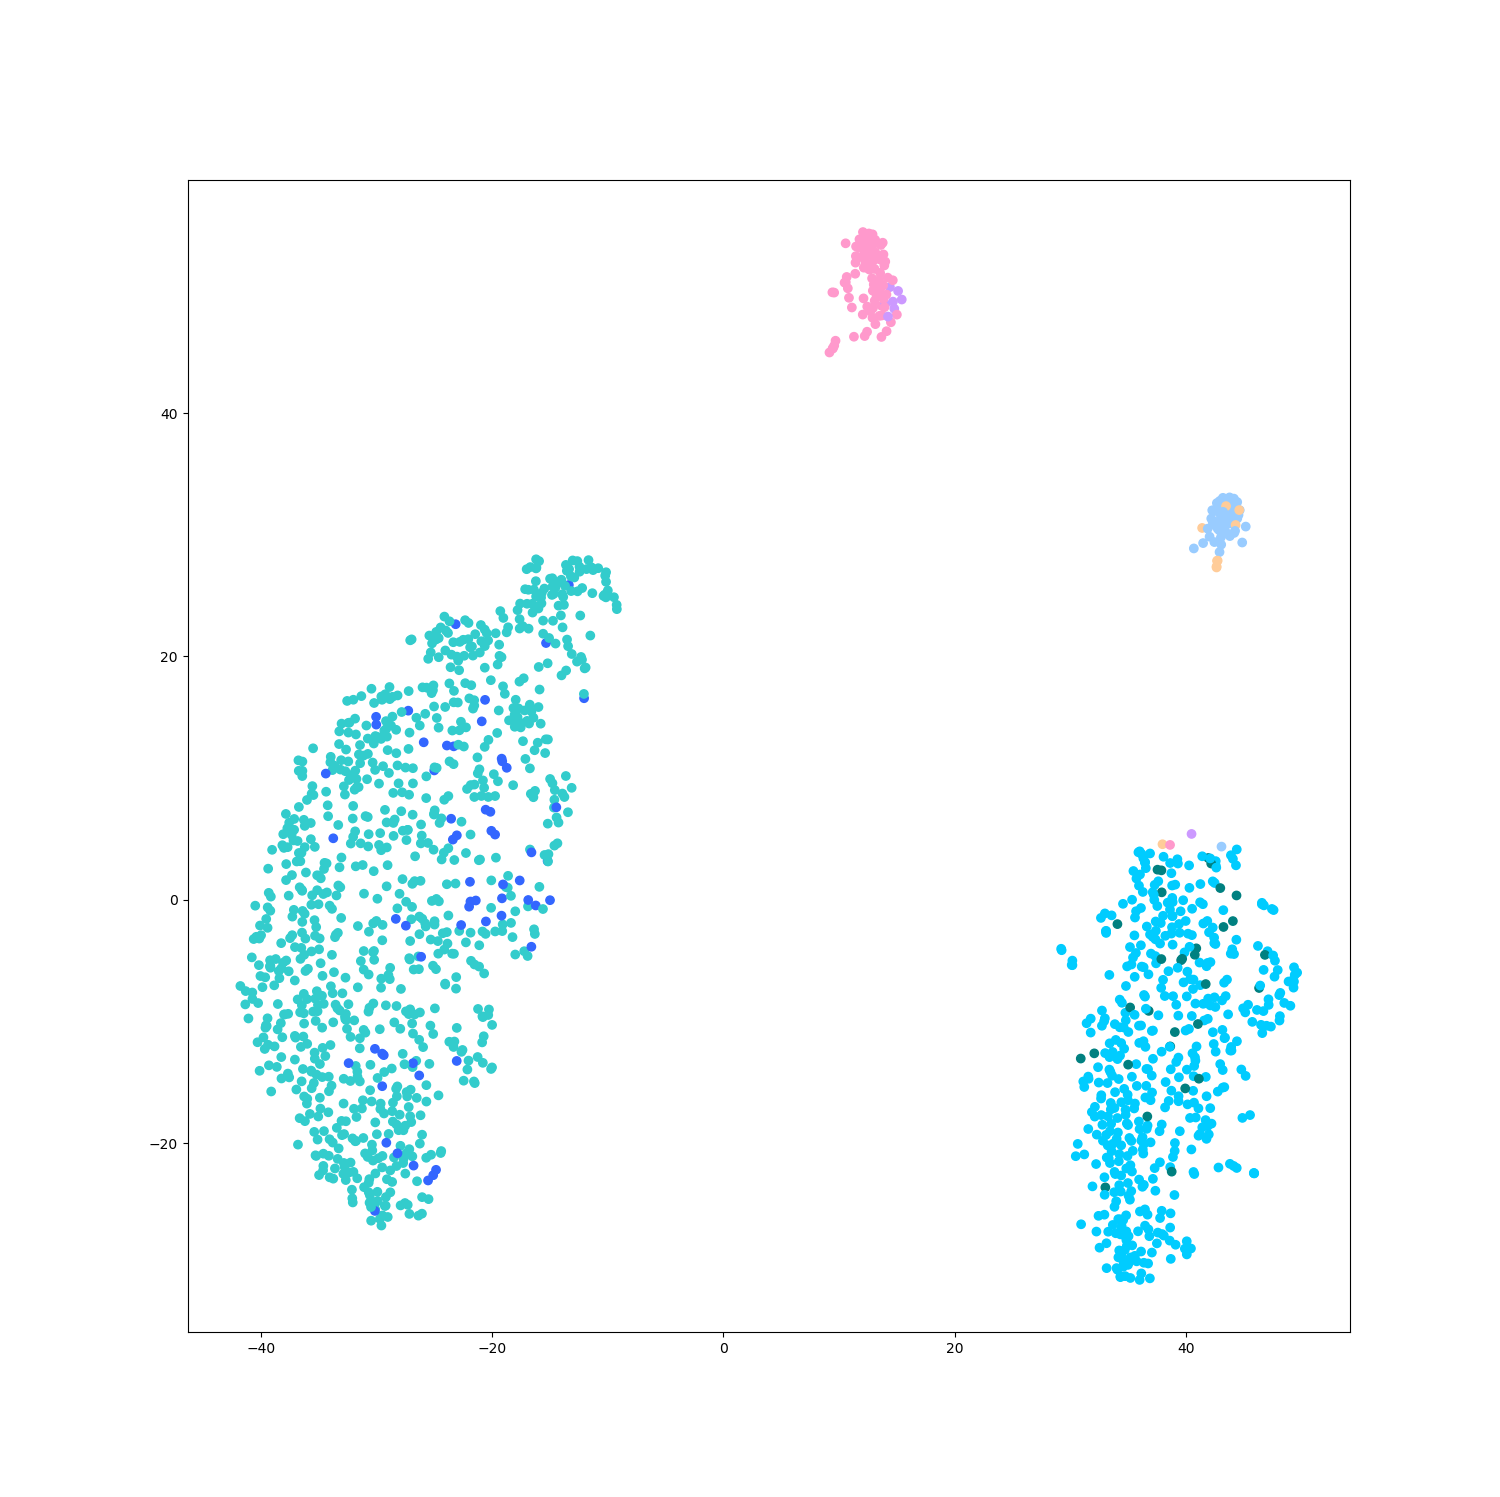
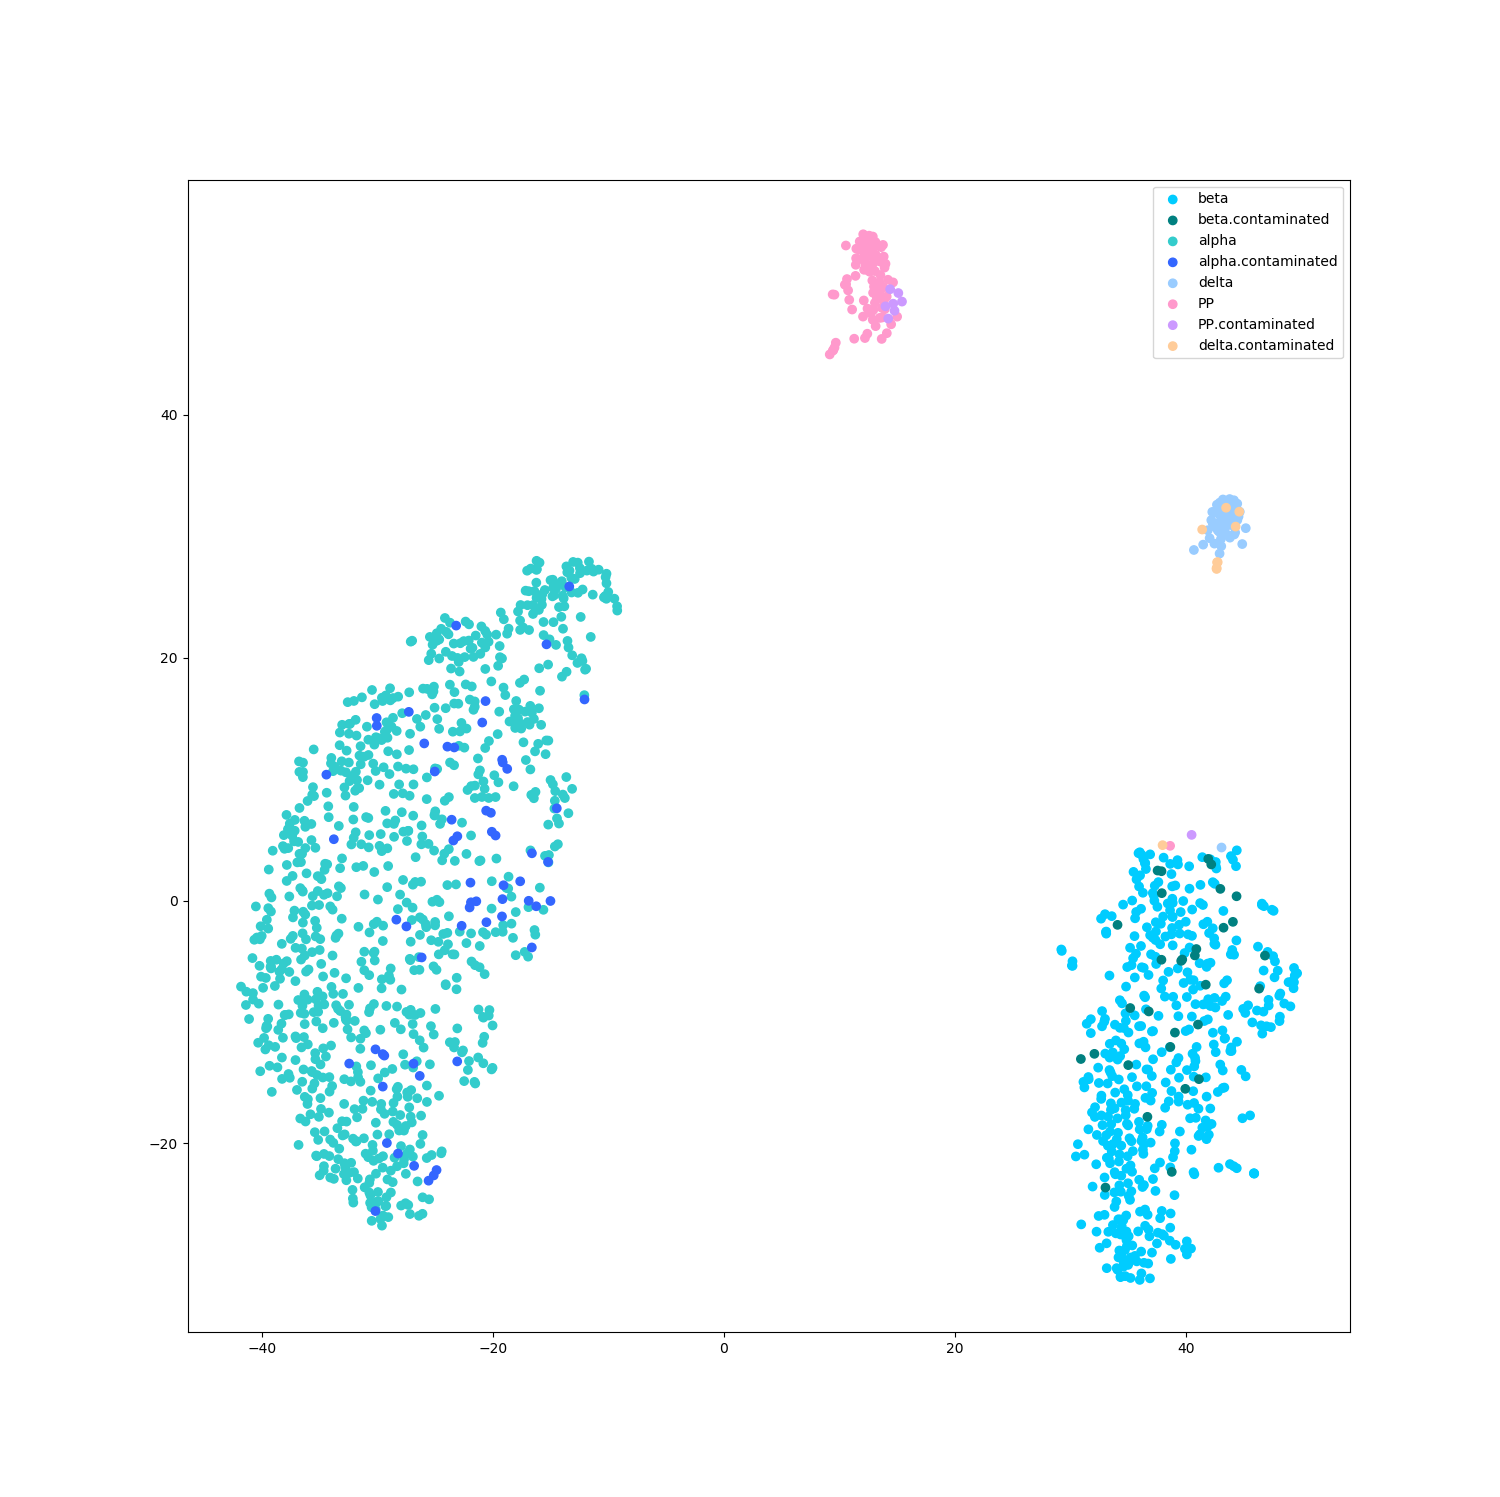
add plot with labels

diff --git a/src/Utils.py b/src/Utils.py
@@ -2,11 +2,12 @@
 Description: 
 Author: CheeReus_11
 Date: 2020-08-08 17:42:59
-LastEditTime: 2020-08-09 14:45:29
+LastEditTime: 2020-08-09 16:58:21
 LastEditors: CheeReus_11
 '''
 
 from collections import Counter
+import matplotlib.pyplot as plt
 
 # default_colors = ['c', 'b', 'g', 'r', 'm', 'y', 'k']
 # default_colors = [[1, 0, 0],[0, 1, 0], [0, 0, 1], [1, 1, 0], [1, 0, 1], [0, 1, 1], [1, 1, 1], [0.5, 0.5, 0.5]]
@@ -14,6 +15,7 @@ default_colors = [[0, 0.8, 1],[0, 0.5, 0.5], [0.2, 0.8, 0.8], [0.2, 0.4, 1], [0.
 
 # Get color list for drawing based on labels, more color values can also be customized
 def get_color(labels, colors=None):
+    
     len_labels = len(labels)
     t = 0
     c = [None] * len_labels
@@ -22,10 +24,32 @@ def get_color(labels, colors=None):
     # colors = colors or range(1, len(count_result.keys()) + 1)
     
     for i in count_result.keys():
-        print(i,colors[t])
         for j in range(len_labels):
             if i == labels[j]:
                 c[j] = colors[t]
         t += 1
     
     return c
+
+# draw with label TODO include the get_color function to simplify
+def draw_scatter(x, y, labels, colors):
+    
+    len_labels = len(labels)
+    t = 0
+    count_result = Counter(labels)
+    plt.figure(figsize=(15,15))
+
+    for i in count_result.keys():
+        xi = []
+        yi = []
+        ci = []
+        for j in range(len_labels):
+            if i == labels[j]:
+                xi.append(x[j])
+                yi.append(y[j])
+                ci.append(colors[j])
+        plt.scatter(xi, yi, c=ci, label=i)
+        t += 1
+
+    plt.legend(loc='best')
+    plt.show()

diff --git a/src/examples_mat.py b/src/examples_mat.py
@@ -2,16 +2,16 @@
 Description: 
 Author: CheeReus_11
 Date: 2020-08-08 17:17:57
-LastEditTime: 2020-08-09 16:16:50
+LastEditTime: 2020-08-09 16:55:12
 LastEditors: CheeReus_11
 '''
 import matplotlib.pyplot as plt
 from ReadData import read_from_mat
 from DimensionReduction import t_SNE, get_pca
-from Utils import get_color
+from Utils import get_color, draw_scatter
 
 # read data
-X = read_from_mat('data/corr/A_hcancer.mat')['A']
+X = read_from_mat('data/corr/A_islet.mat')['A']
 
 # dimenison reduction 
 # t-SNE
@@ -25,7 +25,7 @@ x = [i[0] for i in dim_data]
 y = [i[1] for i in dim_data]
 
 # read labels
-labels = read_from_mat('data/corr/Labels_hcancer.mat')['Labels']
+labels = read_from_mat('data/corr/Labels_islet.mat')['Labels']
 labels = [i[0][0] for i in labels]
 print(len(labels))
 
@@ -34,7 +34,5 @@ default_colors = ['c', 'b', 'g', 'r', 'm', 'y', 'k']
 colors = get_color(labels, default_colors)
 print(colors)
 
-# plot
-plt.figure(figsize=(15,15))
-plt.scatter(x, y, c=colors)
-plt.show()
+# draw
+draw_scatter(x, y, labels, colors)

diff --git a/src/examples_csv.py b/src/examples_csv.py
@@ -2,13 +2,13 @@
 Description: 
 Author: CheeReus_11
 Date: 2020-08-08 17:17:57
-LastEditTime: 2020-08-09 16:05:19
+LastEditTime: 2020-08-09 16:57:17
 LastEditors: CheeReus_11
 '''
 import matplotlib.pyplot as plt
 from ReadData import read_from_csv
 from DimensionReduction import t_SNE, get_pca
-from Utils import get_color
+from Utils import get_color, draw_scatter
 import numpy as np
 
 # read data
@@ -22,7 +22,7 @@ labels = [i.partition('#')[0] for i in labels]
 
 # dimenison reduction 
 # t-SNE
-dim_data = t_SNE(X, perp=5, with_normalize=True)
+dim_data = t_SNE(X, perp=40, with_normalize=True)
 
 # PCA
 # dim_data, ratio, result = get_pca(X, c=2, with_normalize=True)
@@ -37,6 +37,4 @@ default_colors = ['c', 'b', 'g', 'r', 'm', 'y', 'k']
 colors = get_color(labels)
 
 # plot
-plt.figure(figsize=(15,15))
-plt.scatter(x, y, c=colors)
-plt.show()
+draw_scatter(x, y, labels, colors)

diff --git a/src/examples_txt.py b/src/examples_txt.py
@@ -2,13 +2,13 @@
 Description: 
 Author: CheeReus_11
 Date: 2020-08-08 17:17:57
-LastEditTime: 2020-08-09 14:58:49
+LastEditTime: 2020-08-09 17:03:58
 LastEditors: CheeReus_11
 '''
 import matplotlib.pyplot as plt
 from ReadData import read_from_txt
 from DimensionReduction import t_SNE, get_pca
-from Utils import get_color
+from Utils import get_color, draw_scatter
 import numpy as np
 
 # read labels
@@ -23,7 +23,7 @@ print(X.shape)
 
 # dimenison reduction 
 # t-SNE
-dim_data = t_SNE(X, perp=50, with_normalize=True)
+dim_data = t_SNE(X, perp=5, with_normalize=True)
 
 # PCA
 # dim_data, ratio, result = get_pca(X, c=2, with_normalize=True)
@@ -36,6 +36,4 @@ y = [i[1] for i in dim_data]
 colors = get_color(labels)
 
 # plot
-plt.figure(figsize=(15,15))
-plt.scatter(x, y, c=colors, marker='o', linewidths=1)
-plt.show()
+draw_scatter(x, y, labels, colors)
